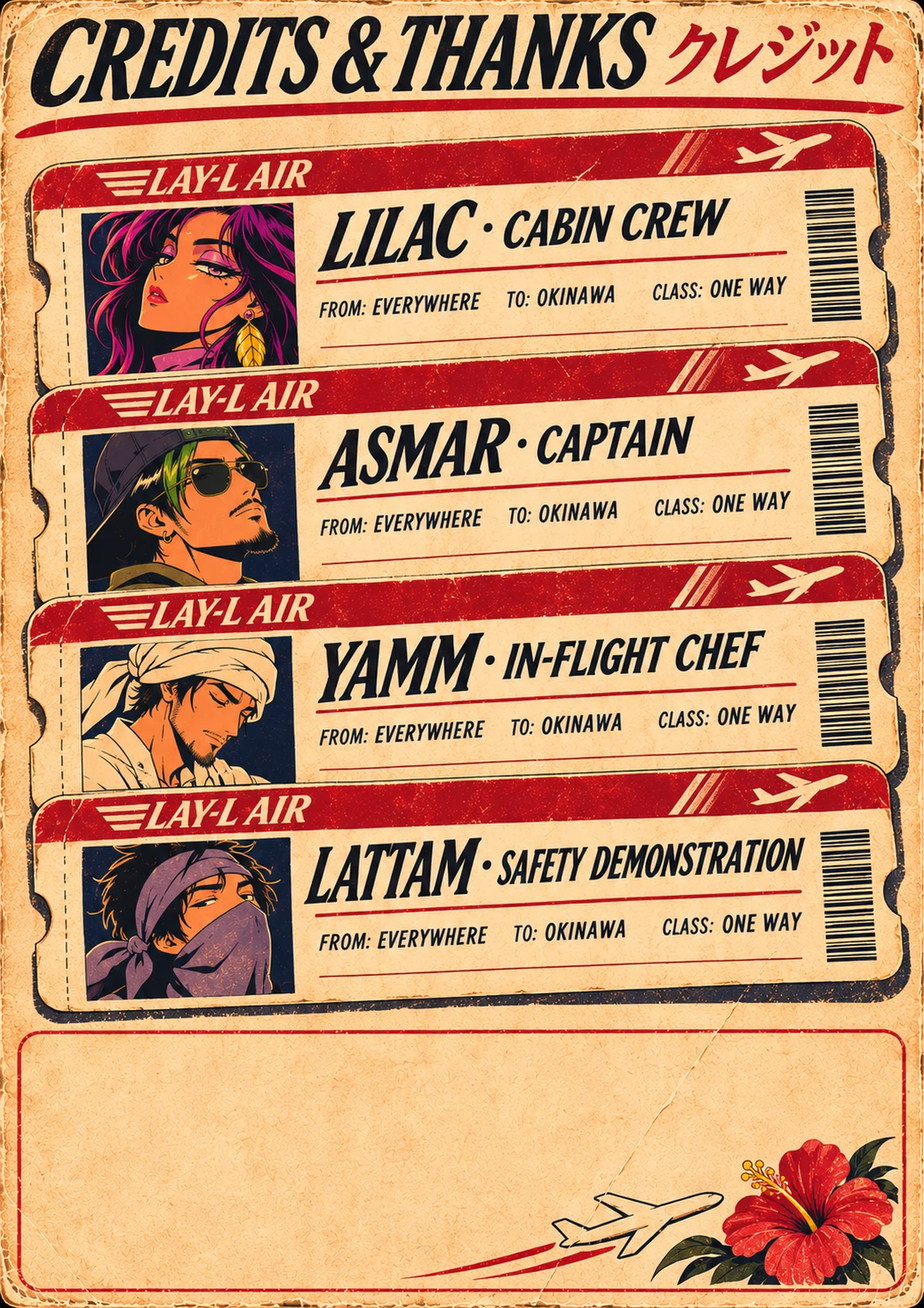
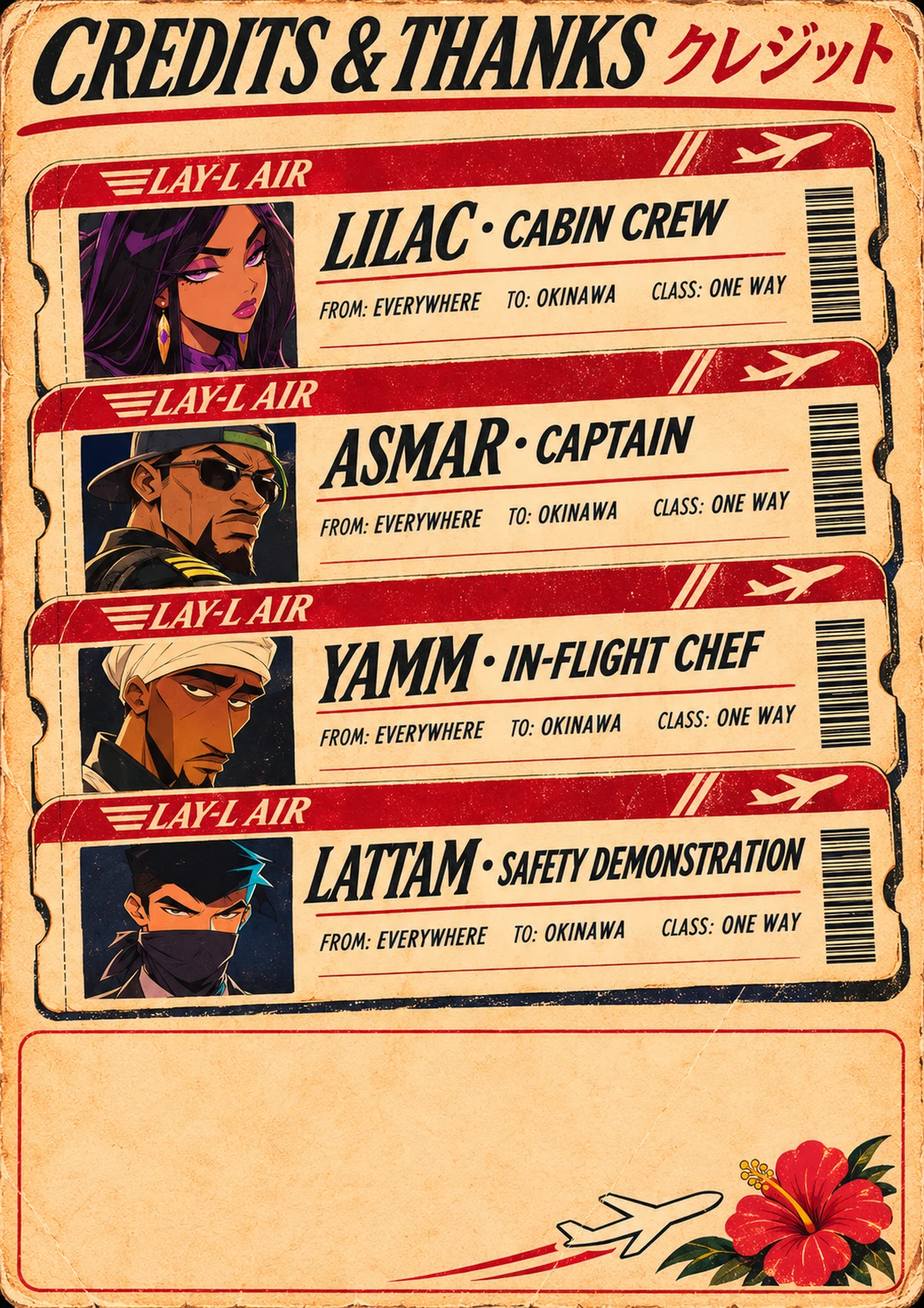
Magazine: updated credits artwork
Claude-Session: https://claude.ai/code/session_013w5yMdZKv437No8p47gv7E

Changed region(s): [[0.0, 0.0, 1.0, 1.0], [0.4361, 0.8625, 0.4673, 0.8933], [0.2804, 0.8625, 0.3115, 0.8933]]

diff --git a/okinawa/magazine.html b/okinawa/magazine.html
@@ -317,7 +317,7 @@ h2.big{white-space:nowrap;font:italic 900 46px/1 "Barlow Condensed";letter-spaci
 <div class="box" style="left:6%;top:74%;width:88%;height:23%"><p class="body s m">LAY-L is one crew of four: Lilac, Asmar, Yamm and Lattam. Every song on <i>Okinawa… One Way..</i> is a soundtrack to a film that doesn’t exist, each from a different decade of Japanese film and music.</p>
 <p class="body s m">The band makes its music with modern tools, AI included, and says so openly. Channel 05, <i>Auntie A.I.</i>, is the band’s answer to anyone who calls that cheating.</p>
 <p class="sign s">— Four different rhythms, one journey.</p></div></section></template><template><section class="pg art"><img class="bleed fill" src="mag/x-btm2.webp" alt="From idea to take-off: how a LAY-L song is made"><p class="step" style="top:22.4%">Every song starts as a small, true feeling: a missed call, a broken fridge, a voice on a platform.</p><p class="step" style="top:38.2%">Lyrics come first, rewritten until every line sounds like something you’d actually say out loud.</p><p class="step" style="top:55.0%">Each song picks a decade and a genre from Japanese film and music, and the sound is built around the voice.</p><p class="step" style="top:71.6%">Every track gets a poster for a film that doesn’t exist, in the style of its era.</p><p class="step" style="top:88.1%">Storyboards, keyframes and animation turn the poster into a music video.</p></section></template><template><section class="pg"><div class="lyhead"><img src="mag/x-lyrhead.webp" alt="Lyrics selections"><span class="scr">♪ Some people leave you letters<br>Some leave a little ring</span></div>
-<div class="lygrid"><div class="ly"><span class="chb">CH<b>01</b></span><div><i>One Missed Call.. Two…</i><q>Tick-tock, running late / You still don’t know how to play the game</q></div></div><div class="ly"><span class="chb">CH<b>02</b></span><div><i>Sakura</i><q>Cold rice and tempura / You were talking through the morning</q></div></div><div class="ly"><span class="chb">CH<b>03</b></span><div><i>Lost in Japan</i><q>Funny how a city you’ve never seen / Can feel familiar on the first night</q></div></div><div class="ly"><span class="chb">CH<b>04</b></span><div><i>Why Would I?</i><q>There’s a little difference / Between what I can and what I choose</q></div></div><div class="ly"><span class="chb">CH<b>05</b></span><div><i>Auntie A.I.</i><q>You can hate the way I made it / Doesn’t mean you made it right</q></div></div><div class="ly"><span class="chb">CH<b>06</b></span><div><i>The Voice at Platform Two</i><q>I watched a woman disappear / Who’d never lived at all</q></div></div><div class="ly"><span class="chb">CH<b>07</b></span><div><i>Plastic Flower</i><q>Who gave you permission to die? / You weren’t even alive!</q></div></div><div class="ly"><span class="chb">CH<b>08</b></span><div><i>Crickets</i><q>I thought we were losing touch / Turns out I was the touch</q></div></div><div class="ly"><span class="chb">CH<b>09</b></span><div><i>SAdTURN</i><q>Must be a pattern / Return to Saturn, return to sad-turn</q></div></div><div class="ly"><span class="chb">CH<b>10</b></span><div><i>ASMR Stimulation</i><q>Don’t get to the point / I prefer the scenic route</q></div></div><div class="ly"><span class="chb">CH<b>11</b></span><div><i>Refrigerator</i><q>You like winter, cold like refrigerator / My bag is alligator</q></div></div><div class="ly"><span class="chb">CH<b>12</b></span><div><i>The Wind Called In Sick</i><q>It comes to me in pieces / And leaves before it ends</q></div></div><div class="ly"><span class="chb">CH<b>13</b></span><div><i>Tamagotchi Luv</i><q>You call it love but it’s luv with a u / You can’t call it love when it’s only you</q></div></div><div class="ly"><span class="chb">CH<b>14</b></span><div><i>Voodoo Doll</i><q>Hocus pocus, can’t you see? / The only disappearing act is you leaving me</q></div></div></div><div class="folio"><span>LAY-L AIR · ONE WAY · ISSUE 001</span><b>28</b></div></section></template><template><section class="pg art"><img class="bleed fill" src="mag/x-credits.webp" alt="Credits and thanks: Lilac, Asmar, Yamm and Lattam boarding passes">
+<div class="lygrid"><div class="ly"><span class="chb">CH<b>01</b></span><div><i>One Missed Call.. Two…</i><q>Tick-tock, running late / You still don’t know how to play the game</q></div></div><div class="ly"><span class="chb">CH<b>02</b></span><div><i>Sakura</i><q>Cold rice and tempura / You were talking through the morning</q></div></div><div class="ly"><span class="chb">CH<b>03</b></span><div><i>Lost in Japan</i><q>Funny how a city you’ve never seen / Can feel familiar on the first night</q></div></div><div class="ly"><span class="chb">CH<b>04</b></span><div><i>Why Would I?</i><q>There’s a little difference / Between what I can and what I choose</q></div></div><div class="ly"><span class="chb">CH<b>05</b></span><div><i>Auntie A.I.</i><q>You can hate the way I made it / Doesn’t mean you made it right</q></div></div><div class="ly"><span class="chb">CH<b>06</b></span><div><i>The Voice at Platform Two</i><q>I watched a woman disappear / Who’d never lived at all</q></div></div><div class="ly"><span class="chb">CH<b>07</b></span><div><i>Plastic Flower</i><q>Who gave you permission to die? / You weren’t even alive!</q></div></div><div class="ly"><span class="chb">CH<b>08</b></span><div><i>Crickets</i><q>I thought we were losing touch / Turns out I was the touch</q></div></div><div class="ly"><span class="chb">CH<b>09</b></span><div><i>SAdTURN</i><q>Must be a pattern / Return to Saturn, return to sad-turn</q></div></div><div class="ly"><span class="chb">CH<b>10</b></span><div><i>ASMR Stimulation</i><q>Don’t get to the point / I prefer the scenic route</q></div></div><div class="ly"><span class="chb">CH<b>11</b></span><div><i>Refrigerator</i><q>You like winter, cold like refrigerator / My bag is alligator</q></div></div><div class="ly"><span class="chb">CH<b>12</b></span><div><i>The Wind Called In Sick</i><q>It comes to me in pieces / And leaves before it ends</q></div></div><div class="ly"><span class="chb">CH<b>13</b></span><div><i>Tamagotchi Luv</i><q>You call it love but it’s luv with a u / You can’t call it love when it’s only you</q></div></div><div class="ly"><span class="chb">CH<b>14</b></span><div><i>Voodoo Doll</i><q>Hocus pocus, can’t you see? / The only disappearing act is you leaving me</q></div></div></div><div class="folio"><span>LAY-L AIR · ONE WAY · ISSUE 001</span><b>28</b></div></section></template><template><section class="pg art"><img class="bleed fill" src="mag/x-credits.webp?v=2" alt="Credits and thanks: Lilac, Asmar, Yamm and Lattam boarding passes">
 <div class="box" style="left:5%;top:78.5%;width:58%;height:17%"><p class="body s"><b>Music &amp; words</b> LAY-L · <b>Contact</b> <a href="mailto:layl.musicband@gmail.com">layl.musicband@gmail.com</a></p>
 <div class="links s"><a href="./">Departures board ▸</a><a href="./?play=0">Play from channel 01 ▸</a><a href="lyrics.html">All the lyrics ▸</a></div>
 <p class="body s">Thank you for flying LAY-L AIR.<br><span lang="ja">ご搭乗ありがとうございました。</span></p></div></section></template><template><section class="pg cover"><img class="bleed fill" src="mag/x-back3.webp" alt="Fly one way. LAY-L AIR back cover ad"></section></template><script>
